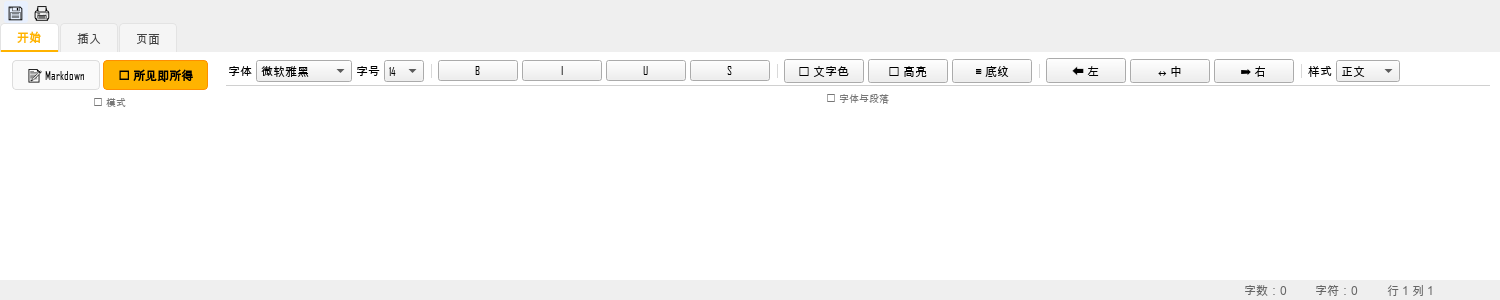
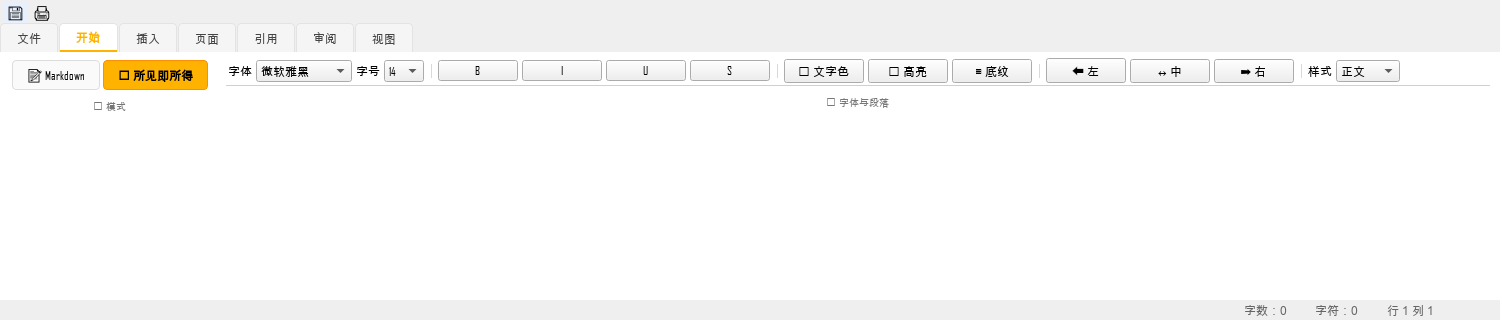
feat(word): 阶段4七标签 Ribbon（文件/开始/插入/页面/引用/审阅/视图）+ 大按钮命令复用

diff --git a/beeoffice/plugins/beewrite.py b/beeoffice/plugins/beewrite.py
@@ -234,20 +234,84 @@ class BeeWriteEditor(
         toolbar_container.setSpacing(1)
         # WPS 式 Ribbon：把两行平铺工具栏收进「开始 / 插入」标签页
         self._ribbon = RibbonBar()
+
+        def _clone_click(toolbar, target):
+            """复用现有工具栏按钮的点击逻辑，避免复制业务代码。"""
+            def _go():
+                for action in toolbar.actions():
+                    widget = toolbar.widgetForAction(action)
+                    if (widget is not None and hasattr(widget, "text")
+                            and target in widget.text()):
+                        widget.click()
+                        return
+            return _go
+
+        def _add_large(group, label, target, toolbar):
+            group.add_large_button(label, target, _clone_click(toolbar, target))
+
+        # 文件：保存/导出/页面设置等高频文件操作（原快速栏）
+        page = self._ribbon.add_tab("文件")
+        group = self._ribbon.add_group(page, "📄 文件与导出")
+        group.add_layout(self._quick_toolbar)
+
         # 开始：模式切换（Markdown/所见即所得）+ 字体/段落
         page = self._ribbon.add_tab("开始")
         group = self._ribbon.add_group(page, "📝 模式")
         group.add_layout(self._mode_toolbar)
         group = self._ribbon.add_group(page, "🖋 字体与段落")
         group.add_widget(self._toolbar1)
+
         # 插入：表格/图片/链接/分页/批注/修订等
         page = self._ribbon.add_tab("插入")
         group = self._ribbon.add_group(page, "📋 插入与对象")
         group.add_widget(self._toolbar2)
-        # 页面：导出/保存/页面设置/页眉页脚/页面视图/拼写检查
+
+        # 页面：页面设置/页眉页脚/页面视图/打印
         page = self._ribbon.add_tab("页面")
-        group = self._ribbon.add_group(page, "📄 文件与页面")
-        group.add_layout(self._quick_toolbar)
+        group = self._ribbon.add_group(page, "📄 页面设置")
+        for label, target in (
+            ("📄\n页面设置", "页面设置"),
+            ("📋\n页眉页脚", "页眉页脚"),
+            ("📄\n页面视图", "页面视图"),
+        ):
+            _add_large(group, label, target, self._quick_toolbar)
+
+        # 引用：目录/交叉引用/页码/分节符/水印
+        page = self._ribbon.add_tab("引用")
+        group = self._ribbon.add_group(page, "📑 引用与目录")
+        for label, target in (
+            ("📑\n目录", "目录"),
+            ("📑\n目录域", "目录域"),
+            ("🔢\n交叉引用", "交叉引用"),
+            ("🔗\n链接", "链接"),
+            ("📄\n页码", "页码"),
+            ("💧\n水印", "水印"),
+        ):
+            _add_large(group, label, target, self._toolbar2)
+
+        # 审阅：拼写/批注/修订
+        page = self._ribbon.add_tab("审阅")
+        group = self._ribbon.add_group(page, "🔤 校对与审阅")
+        _add_large(group, "🔤\n拼写检查", "拼写检查", self._quick_toolbar)
+        for label, target in (
+            ("💬\n批注", "批注"),
+            ("📋\n批注栏", "批注栏"),
+            ("📝\n修订", "修订"),
+            ("📊\n查看修改", "查看修改"),
+        ):
+            _add_large(group, label, target, self._toolbar2)
+
+        # 视图：大纲/阅读/双屏/折叠
+        page = self._ribbon.add_tab("视图")
+        group = self._ribbon.add_group(page, "👁 视图")
+        _add_large(group, "📄\n页面视图", "页面视图", self._quick_toolbar)
+        for label, target in (
+            ("📑\n大纲", "大纲"),
+            ("📖\n阅读", "阅读"),
+            ("📊\n双屏", "双屏"),
+            ("▲\n收起", "收起"),
+        ):
+            _add_large(group, label, target, self._toolbar2)
         toolbar_container.addWidget(self._ribbon)
         self._ribbon.add_quick_action("💾", "保存 (Ctrl+S)", self.save)
         self._ribbon.add_quick_action("🖨", "页面视图", self._print_preview)

diff --git a/tests/fidelity/test_phase4_word_2026_10_26.py b/tests/fidelity/test_phase4_word_2026_10_26.py
@@ -4,7 +4,7 @@
 def test_word_phase4_tabs_and_embedded_rows(qtbot, beewrite_editor):
     editor = beewrite_editor
     ribbon = editor._ribbon
-    assert ribbon.tab_names() == ["开始", "插入", "页面"]
+    assert ribbon.tab_names() == ["文件", "开始", "插入", "页面", "引用", "审阅", "视图"]
     # 旧的外置模式栏/快速栏不再是主布局的直接子布局
     direct = [
         editor.layout().itemAt(i).layout()
@@ -16,8 +16,8 @@ def test_word_phase4_tabs_and_embedded_rows(qtbot, beewrite_editor):
     # 三块内容都在 Ribbon 内
     assert ribbon.isAncestorOf(editor._toolbar1)
     assert ribbon.isAncestorOf(editor._toolbar2)
-    page0 = ribbon._stack.widget(0)
-    assert page0.isAncestorOf(editor._toolbar1)
+    page1 = ribbon._stack.widget(1)
+    assert page1.isAncestorOf(editor._toolbar1)
 
 
 def test_word_phase4_rich_mode_shows_formatting(qtbot, beewrite_editor):
@@ -26,5 +26,5 @@ def test_word_phase4_rich_mode_shows_formatting(qtbot, beewrite_editor):
     qtbot.wait(30)
     # fixture 未 show 窗口，isVisible 恒为 False；用 hidden 状态判断模式切换
     assert not editor._toolbar1.isHidden()
-    assert editor._ribbon.tab_names()[0] == "开始"
+    assert editor._ribbon.tab_names()[1] == "开始"
     editor._md_btn.click()

diff --git a/tests/fidelity/test_ribbon_ui_2026_10_23.py b/tests/fidelity/test_ribbon_ui_2026_10_23.py
@@ -43,16 +43,16 @@ def test_word_has_wps_ribbon_tabs(beewrite_editor, qtbot):
     qtbot.waitExposed(editor)
     ribbon = editor._ribbon
     assert isinstance(ribbon, RibbonBar)
-    assert ribbon.tab_names() == ["开始", "插入", "页面"]
+    assert ribbon.tab_names() == ["文件", "开始", "插入", "页面", "引用", "审阅", "视图"]
     # 工具栏已被收进对应 Ribbon 页的分组框（结构断言，避免 offscreen 可见性抖动）
-    page0 = ribbon._stack.widget(0)
     page1 = ribbon._stack.widget(1)
-    assert page0.isAncestorOf(editor._toolbar1)
-    assert page1.isAncestorOf(editor._toolbar2)
-    ribbon.set_current_tab(1)
+    page2 = ribbon._stack.widget(2)
+    assert page1.isAncestorOf(editor._toolbar1)
+    assert page2.isAncestorOf(editor._toolbar2)
+    ribbon.set_current_tab(2)
     qtbot.wait(30)
-    assert ribbon.current_index() == 1
-    assert ribbon._stack.currentWidget() is page1
+    assert ribbon.current_index() == 2
+    assert ribbon._stack.currentWidget() is page2
 
 
 def test_ribbon_groups_have_titles(qtbot):

diff --git a/CHANGELOG.md b/CHANGELOG.md
@@ -11,10 +11,15 @@
 **阶段 4（Word 优先）：蜜写 WPS 式三页 Ribbon。**
 
 ### 变更
-- 移除蜜写旧的外置「模式栏 + 快速栏」，全部收进 Ribbon：
+- 移除蜜写旧的外置「模式栏 + 快速栏」，全部收进 **WPS 式七标签 Ribbon**：
+  - **文件**：📄 导出/保存/模板/页面设置/页眉页脚/页面视图/拼写检查；
   - **开始**：📝 模式（Markdown / 所见即所得）+ 🖋 字体与段落；
-  - **插入**：📋 插入与对象（表格/图片/链接/分页/批注/修订/大纲等）；
-  - **页面**：📄 文件与页面（导出 PDF/Word、保存 MD、模板、页面设置、页眉页脚、页面视图、拼写检查）；
+  - **插入**：📋 插入与对象（表格/图片/公式/链接/分页/批注/修订/大纲等）；
+  - **页面**：页面设置/页眉页脚/页面视图大按钮；
+  - **引用**：目录/目录域/交叉引用/链接/页码/水印大按钮；
+  - **审阅**：拼写检查/批注/批注栏/修订/查看修改；
+  - **视图**：页面视图/大纲/阅读/双屏/收起；
+- 新增页签命令复用原工具栏按钮点击逻辑，不复制业务代码；
 - 页面宽度不足时仍保留 QToolBar 溢出菜单，不丢命令；
 - 新增阶段 4 回归测试（旧栏不再外置、三页签、切 Rich 后格式栏可用）。
 
